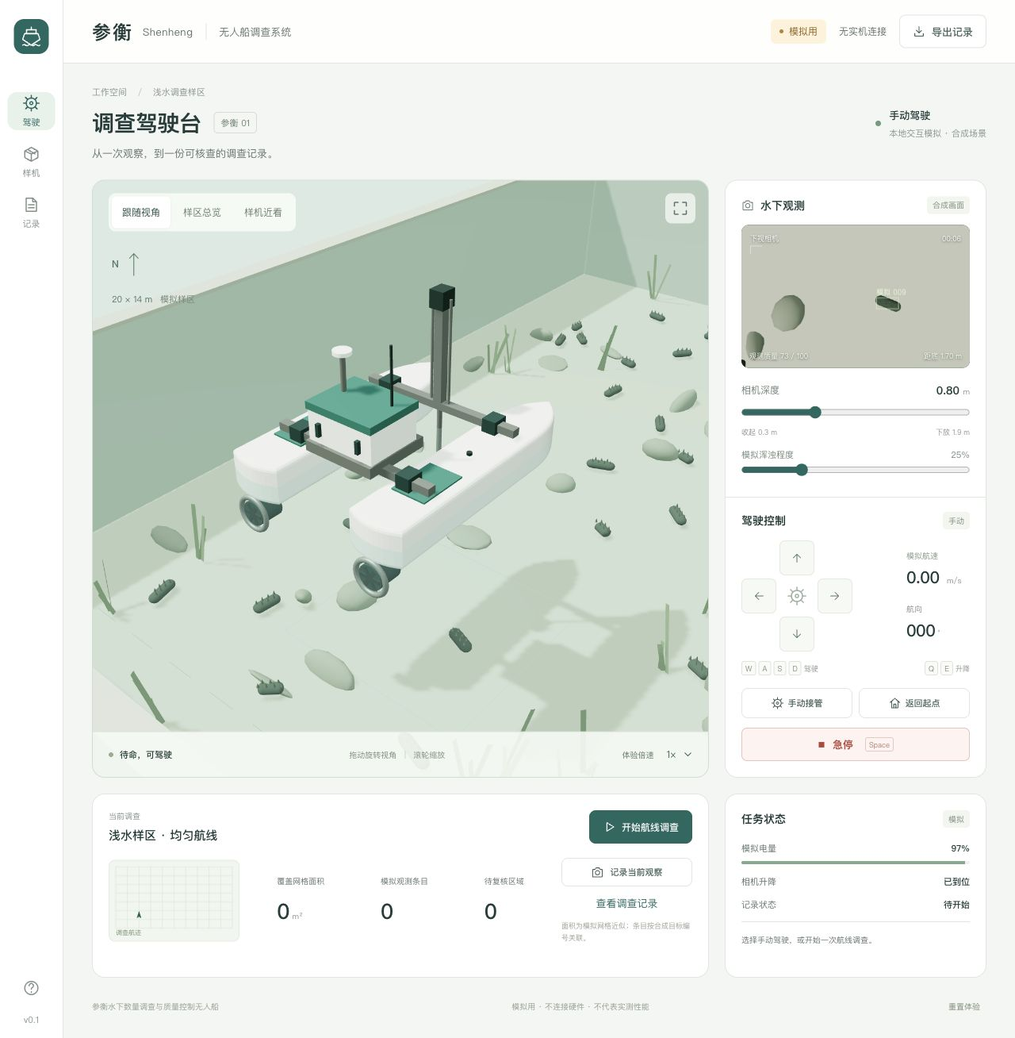
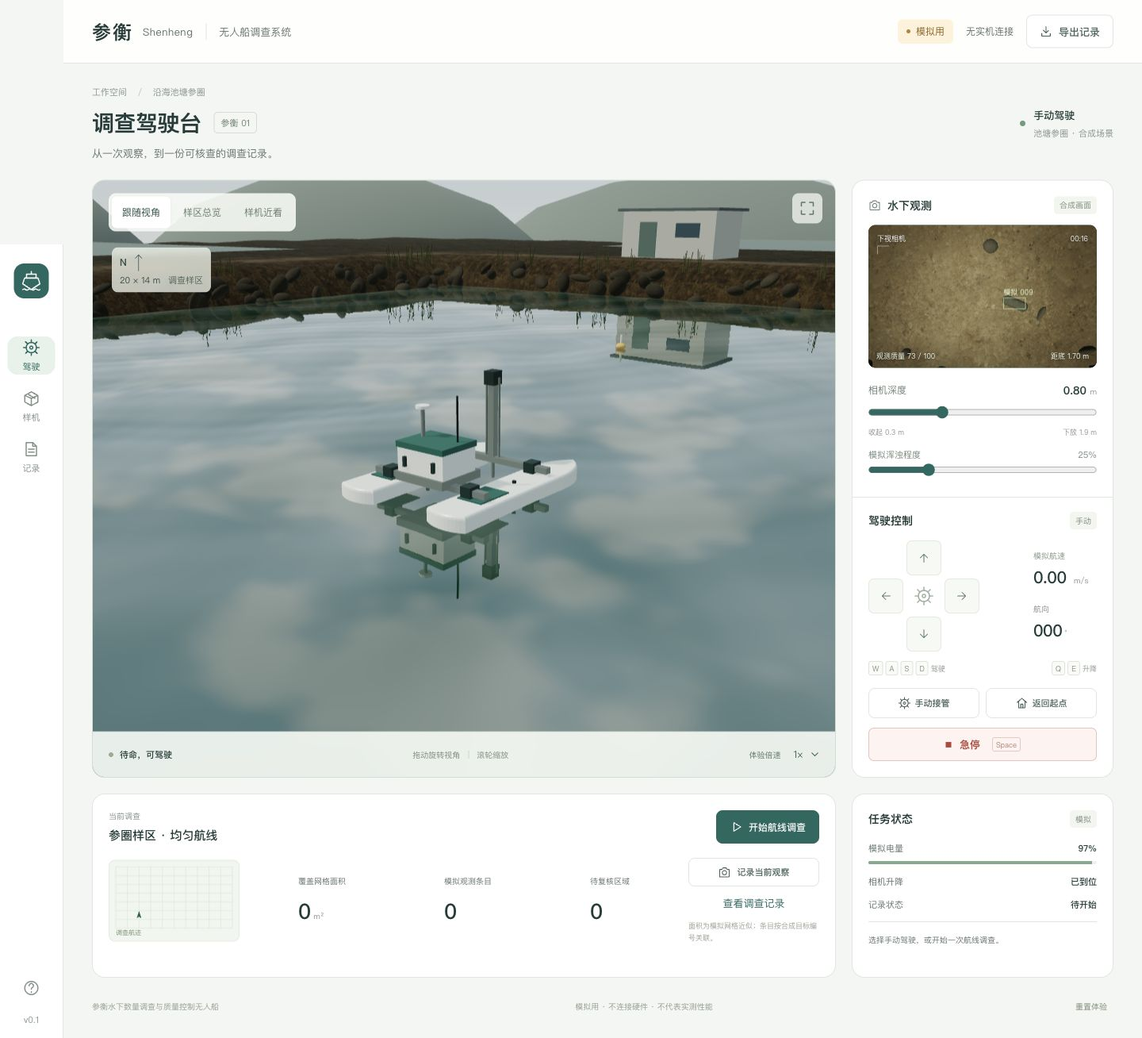
Replace display pool with coastal sea cucumber pond environment

diff --git a/scene.js b/scene.js
@@ -1,27 +1,21 @@
 import * as THREE from 'three';
-import {LIMITS,observationCenter} from './simulation.mjs';
+import {LIMITS,observationCenter} from './simulation.mjs?v=pond-1';
+import {createPondEnvironment} from './environment.js?v=pond-1';
+import {isReefOccluded} from './habitat.mjs?v=pond-1';
 
 const PARTS={hull:['双体浮筒','两侧浮筒承载横梁与设备，中央保留观测模块升降通道。概念比例尚未做浮力校核。'],thruster:['浸没式双推进器','两个带导流罩推进器安装在水线以下。左右差速用于转向；当前运动为简化模拟。'],lift:['中央升降机构','摄像头沿中央导杆垂直升降。可变观测高度不等于已验证的定高控制。'],pod:['下视观测模块','摄像头朝向池底，两侧为补光，侧边为测距模块。画面为合成场景，不运行识别模型。'],box:['密封控制与电池舱','舱体布置在横梁后方，避开升降行程。真实防水、续航与散热需另行测试。']};
 export function setupScene(container,camCanvas,overlay,world,onPart){
- const scene=new THREE.Scene();scene.background=new THREE.Color('#dce9e3');scene.fog=new THREE.Fog('#dce9e3',32,72);
- const renderer=new THREE.WebGLRenderer({antialias:true,alpha:false});renderer.setPixelRatio(Math.min(devicePixelRatio,1.75));renderer.toneMapping=THREE.ACESFilmicToneMapping;renderer.toneMappingExposure=1.25;renderer.shadowMap.enabled=true;renderer.shadowMap.type=THREE.PCFShadowMap;container.replaceChildren(renderer.domElement);
- const camera=new THREE.PerspectiveCamera(38,1,.05,100);const eye=new THREE.Vector3(),target=new THREE.Vector3();
- const hemi=new THREE.HemisphereLight('#f5fff8','#738b70',3.1);scene.add(hemi);const sun=new THREE.DirectionalLight('#fff7e8',3.6);sun.position.set(-9,18,8);sun.castShadow=true;sun.shadow.mapSize.set(1024,1024);sun.shadow.camera.left=-15;sun.shadow.camera.right=15;sun.shadow.camera.top=15;sun.shadow.camera.bottom=-15;sun.shadow.normalBias=.04;scene.add(sun);
+ const scene=new THREE.Scene();scene.background=new THREE.Color('#b1bebd');scene.fog=new THREE.FogExp2('#b1bebd',.004);
+ const renderer=new THREE.WebGLRenderer({antialias:true,alpha:false});renderer.setPixelRatio(Math.min(devicePixelRatio,1.5));renderer.toneMapping=THREE.ACESFilmicToneMapping;renderer.toneMappingExposure=.96;renderer.shadowMap.enabled=true;renderer.shadowMap.type=THREE.PCFShadowMap;container.replaceChildren(renderer.domElement);
+ const camera=new THREE.PerspectiveCamera(42,1,.05,600);const eye=new THREE.Vector3(),target=new THREE.Vector3();
+ const hemi=new THREE.HemisphereLight('#d4e1ea','#5d5947',1.15);scene.add(hemi);const sun=new THREE.DirectionalLight('#fff2dc',2.4);sun.position.set(-25,42,24);sun.castShadow=true;sun.shadow.mapSize.set(2048,2048);sun.shadow.camera.left=-34;sun.shadow.camera.right=34;sun.shadow.camera.top=34;sun.shadow.camera.bottom=-34;sun.shadow.camera.far=120;sun.shadow.normalBias=.025;sun.shadow.bias=-.0001;sun.shadow.intensity=.68;scene.add(sun);
  const material=(color,roughness=.55,metalness=0)=>new THREE.MeshStandardMaterial({color,roughness,metalness});
  const shell=material('#e9eee9',.3),metal=material('#9daaa4',.33,.65),dark=material('#2c4945',.45,.15),teal=material('#2b6d61',.5),black=material('#253a36',.55),sand=material('#b3b89b',.95);
  const mesh=(geo,mat,parent,pos,part)=>{const o=new THREE.Mesh(geo,mat);if(pos)o.position.set(...pos);o.castShadow=true;o.receiveShadow=true;if(part)o.userData.part=part;parent.add(o);return o};
  const box=(w,h,d,mat,parent,pos,part)=>mesh(new THREE.BoxGeometry(w,h,d),mat,parent,pos,part);
  const cyl=(r,h,mat,parent,pos,part)=>mesh(new THREE.CylinderGeometry(r,r,h,20),mat,parent,pos,part);
- const floor=mesh(new THREE.PlaneGeometry(23,17,1,1),sand,scene,[0,-2.5,0]);floor.rotation.x=-Math.PI/2;
- const pondEdge=new THREE.Group();scene.add(pondEdge);for(const x of [-10.5,10.5])box(.3,2.6,15,material('#a7b8a6'),pondEdge,[x,-1.25,0]);for(const z of [-7.5,7.5])box(21.3,2.6,.3,material('#a7b8a6'),pondEdge,[0,-1.25,z]);
- const waterGeo=new THREE.PlaneGeometry(21,15,50,36);waterGeo.rotateX(-Math.PI/2);const waterMat=new THREE.MeshPhysicalMaterial({color:'#619f96',transparent:true,opacity:.28,roughness:.2,metalness:.15,depthWrite:false,side:THREE.DoubleSide});const water=new THREE.Mesh(waterGeo,waterMat);water.renderOrder=3;scene.add(water);
- const edgePoints=[[-10,0,-7],[10,0,-7],[10,0,7],[-10,0,7],[-10,0,-7]].map(p=>new THREE.Vector3(...p));const edge=new THREE.Line(new THREE.BufferGeometry().setFromPoints(edgePoints),new THREE.LineDashedMaterial({color:'#6d9f86',dashSize:.22,gapSize:.18,transparent:true,opacity:.7}));edge.computeLineDistances();edge.position.y=.04;scene.add(edge);
- const rng=(n)=>{const v=Math.sin(n*127.1+34.3)*43758.5453;return v-Math.floor(v)};
- // Shared repeated geometries and materials avoid one allocation per frame.
- const rockGeo=new THREE.IcosahedronGeometry(1,1),rockMat=material('#7d8974',.98),sea=new THREE.Group();scene.add(sea);
- for(let i=0;i<65;i++){const x=(rng(i+1)-.5)*19,z=(rng(i+140)-.5)*13;const o=mesh(rockGeo,rockMat,sea,[x,-2.48,z]);o.scale.set(.09+rng(i+32)*.28,.04+rng(i+12)*.18,.1+rng(i+44)*.25);o.rotation.set(rng(i)*3,rng(i+7)*4,0)}
- const bladeGeo=new THREE.PlaneGeometry(.05,.45);bladeGeo.translate(0,.22,0);const weedMat=new THREE.MeshStandardMaterial({color:'#728966',roughness:1,side:THREE.DoubleSide});for(let i=0;i<100;i++){const x=(rng(i+300)-.5)*20,z=(rng(i+500)-.5)*14;if(Math.abs(x)<7&&Math.abs(z)<4&&i%3)continue;for(let j=0;j<3;j++){const o=mesh(bladeGeo,weedMat,sea,[x+j*.04,-2.47,z]);o.rotation.y=rng(i+j)*6;o.rotation.z=(rng(i+30+j)-.5)*.7;o.scale.y=.5+rng(i+99+j)*1.6}}
- const targetGroup=new THREE.Group();scene.add(targetGroup);const bodyGeo=new THREE.CapsuleGeometry(.07,.22,4,10);bodyGeo.rotateZ(Math.PI/2);const targetMat=material('#34473a',.94);const spikeGeo=new THREE.ConeGeometry(.018,.055,4);const spikeMat=material('#425140',.94);
+ const environment=createPondEnvironment(scene,renderer),water=environment.water;
+ const targetGroup=new THREE.Group();environment.underwater.add(targetGroup);const bodyGeo=new THREE.CapsuleGeometry(.07,.22,4,10);bodyGeo.rotateZ(Math.PI/2);const targetMat=material('#35352a',.82);const spikeGeo=new THREE.ConeGeometry(.018,.055,4);const spikeMat=material('#4a4832',.86);
  const targetBodies=new THREE.InstancedMesh(bodyGeo,targetMat,world.length),spikes=new THREE.InstancedMesh(spikeGeo,spikeMat,world.length*7),dummy=new THREE.Object3D();targetGroup.add(targetBodies,spikes);targetBodies.castShadow=true;targetBodies.receiveShadow=true;world.forEach((o,index)=>{dummy.position.set(o.x,-2.405,o.z);dummy.rotation.set(0,o.angle,0);dummy.scale.set(o.size/.17,.8,1);dummy.updateMatrix();targetBodies.setMatrixAt(index,dummy.matrix);for(let i=0;i<7;i++){const offset=(i-3)*.04,side=i%2?-.025:.025;dummy.position.set(o.x+Math.cos(o.angle)*offset+Math.sin(o.angle)*side,-2.33,o.z-Math.sin(o.angle)*offset+Math.cos(o.angle)*side);dummy.rotation.set(0,o.angle,0);dummy.scale.set(1,1,1);dummy.updateMatrix();spikes.setMatrixAt(index*7+i,dummy.matrix)}});targetBodies.computeBoundingSphere();spikes.computeBoundingSphere();
  const boat=new THREE.Group();scene.add(boat);
  const hullShape=new THREE.Shape();hullShape.moveTo(-.24,-1.1);hullShape.lineTo(-.24,.75);hullShape.quadraticCurveTo(-.24,1.15,0,1.36);hullShape.quadraticCurveTo(.24,1.15,.24,.75);hullShape.lineTo(.24,-1.1);hullShape.quadraticCurveTo(0,-1.23,-.24,-1.1);
@@ -35,18 +29,22 @@ export function setupScene(container,camCanvas,overlay,world,onPart){
  const footprint=new THREE.LineLoop(new THREE.BufferGeometry().setFromPoints([new THREE.Vector3(-.68,0,-.68),new THREE.Vector3(.68,0,-.68),new THREE.Vector3(.68,0,.68),new THREE.Vector3(-.68,0,.68)]),new THREE.LineBasicMaterial({color:'#74d8b2',transparent:true,opacity:.6}));footprint.position.y=-2.47;scene.add(footprint);
  const trackGeo=new THREE.BufferGeometry();trackGeo.setAttribute('position',new THREE.Float32BufferAttribute(new Float32Array(1200*3),3));trackGeo.setDrawRange(0,0);const track=new THREE.Line(trackGeo,new THREE.LineBasicMaterial({color:'#4eaa8a',transparent:true,opacity:.6}));track.frustumCulled=false;scene.add(track);
  const routeLine=new THREE.Line(new THREE.BufferGeometry(),new THREE.LineDashedMaterial({color:'#96b39a',dashSize:.22,gapSize:.18,transparent:true,opacity:.65}));routeLine.frustumCulled=false;scene.add(routeLine);let routeSignature='';
- let view='follow',azimuth=.70,elevation=.58,distance=8,drag=null,moved=false;
+ let view='follow',azimuth=.7,elevation=.32,distance=9.5,drag=null,moved=false,firstFrame=true;
  const ray=new THREE.Raycaster(),pointer=new THREE.Vector2();
- container.addEventListener('pointerdown',e=>{drag={x:e.clientX,y:e.clientY};moved=false;container.setPointerCapture(e.pointerId)});container.addEventListener('pointermove',e=>{if(!drag)return;const dx=e.clientX-drag.x,dy=e.clientY-drag.y;if(Math.abs(dx)+Math.abs(dy)>2)moved=true;azimuth-=dx*.007;elevation=THREE.MathUtils.clamp(elevation+dy*.006,.15,1.2);drag={x:e.clientX,y:e.clientY}});container.addEventListener('pointerup',e=>{if(!moved){const rect=container.getBoundingClientRect();pointer.set((e.clientX-rect.left)/rect.width*2-1,-(e.clientY-rect.top)/rect.height*2+1);ray.setFromCamera(pointer,camera);const hits=ray.intersectObject(boat,true);const hit=hits.find(h=>h.object.userData.part);if(hit){const id=hit.object.userData.part;onPart(PARTS[id]);}}drag=null});container.addEventListener('pointercancel',()=>drag=null);container.addEventListener('wheel',e=>{e.preventDefault();distance=THREE.MathUtils.clamp(distance+e.deltaY*.008,3.8,36)},{passive:false});
- const camRenderer=new THREE.WebGLRenderer({canvas:camCanvas,antialias:true});camRenderer.setPixelRatio(Math.min(devicePixelRatio,1.5));camRenderer.toneMapping=THREE.ACESFilmicToneMapping;camRenderer.toneMappingExposure=.9;const downCam=new THREE.PerspectiveCamera(65,1,.05,10);const ctx=overlay.getContext('2d');const projectPoint=new THREE.Vector3();
+ container.addEventListener('pointerdown',e=>{drag={x:e.clientX,y:e.clientY};moved=false;container.setPointerCapture(e.pointerId)});container.addEventListener('pointermove',e=>{if(!drag)return;const dx=e.clientX-drag.x,dy=e.clientY-drag.y;if(Math.abs(dx)+Math.abs(dy)>2)moved=true;azimuth-=dx*.007;elevation=THREE.MathUtils.clamp(elevation+dy*.006,.15,1.2);drag={x:e.clientX,y:e.clientY}});container.addEventListener('pointerup',e=>{if(!moved){const rect=container.getBoundingClientRect();pointer.set((e.clientX-rect.left)/rect.width*2-1,-(e.clientY-rect.top)/rect.height*2+1);ray.setFromCamera(pointer,camera);const hits=ray.intersectObject(boat,true);const hit=hits.find(h=>h.object.userData.part);if(hit){const id=hit.object.userData.part;onPart(PARTS[id]);}}drag=null});container.addEventListener('pointercancel',()=>drag=null);container.addEventListener('wheel',e=>{e.preventDefault();distance=THREE.MathUtils.clamp(distance+e.deltaY*.008,3.8,90)},{passive:false});
+ const observationLight=new THREE.SpotLight('#e8edcf',14,3.5,Math.PI/3,.8,2);scene.add(observationLight,observationLight.target);
+ const camRenderer=new THREE.WebGLRenderer({canvas:camCanvas,antialias:true});camRenderer.setPixelRatio(Math.min(devicePixelRatio,1.5));camRenderer.toneMapping=THREE.ACESFilmicToneMapping;camRenderer.toneMappingExposure=1.2;const downCam=new THREE.PerspectiveCamera(65,1,.05,10);const ctx=overlay.getContext('2d');const projectPoint=new THREE.Vector3();
  const resize=()=>{const w=container.clientWidth,h=container.clientHeight;if(!w||!h)return;renderer.setSize(w,h);camera.aspect=w/h;camera.updateProjectionMatrix();const cw=camCanvas.clientWidth,ch=camCanvas.clientHeight;camRenderer.setSize(cw,ch,false);downCam.aspect=cw/ch;downCam.updateProjectionMatrix();overlay.width=cw;overlay.height=ch};new ResizeObserver(resize).observe(container);new ResizeObserver(resize).observe(camCanvas);resize();
- const setView=v=>{view=v;azimuth=.7;elevation=v==='overview'?1.08:.53;distance=v==='overview'?26:v==='model'?4.8:8};
- const update=(s,elapsed)=>{boat.position.set(s.x,Math.sin(elapsed*1.2)*.008,s.z);boat.rotation.y=-s.heading;boat.rotation.z=Math.sin(elapsed*1.3)*.007;podGroup.position.y=-s.depth;liftRod.scale.y=s.depth+.25;liftRod.position.y=(.25-s.depth)/2;const h=LIMITS.waterDepth-s.depth;cone.scale.set(h, h, h);cone.position.y=-s.depth-h/2;const center=observationCenter(s),localFoot=new THREE.Vector3(center.x-s.x,0,center.z-s.z);footprint.position.set(s.x+localFoot.x,-2.47,s.z+localFoot.z);footprint.scale.set(h,h,h);footprint.rotation.y=-s.heading;boat.children.filter(o=>o.name==='propeller').forEach(o=>o.rotation.z+=Math.abs(s.speed)*.5);
-  if(view==='overview')target.set(0,-.6,0);else target.set(s.x,-.3,s.z);eye.set(target.x+Math.sin(azimuth)*Math.cos(elevation)*distance,target.y+Math.sin(elevation)*distance,target.z+Math.cos(azimuth)*Math.cos(elevation)*distance);camera.position.lerp(eye,.12);camera.lookAt(target);const p=trackGeo.attributes.position;for(let i=0;i<s.track.length;i++)p.setXYZ(i,s.track[i].x,.055,s.track[i].z);p.needsUpdate=true;trackGeo.setDrawRange(0,s.track.length);const signature=JSON.stringify(s.route);if(signature!==routeSignature){routeSignature=signature;routeLine.geometry.dispose();routeLine.geometry=new THREE.BufferGeometry().setFromPoints(s.route.map(v=>new THREE.Vector3(v.x,.04,v.z)));routeLine.computeLineDistances()}
+ const setView=v=>{view=v;azimuth=.7;elevation=v==='overview'?.90:v==='model'?.43:.32;distance=v==='overview'?70:v==='model'?5:9.5};
+ const update=(s,elapsed)=>{boat.position.set(s.x,Math.sin(elapsed*1.2)*.016,s.z);boat.rotation.y=-s.heading;boat.rotation.z=Math.sin(elapsed*1.3)*.012;podGroup.position.y=-s.depth;liftRod.scale.y=s.depth+.25;liftRod.position.y=(.25-s.depth)/2;const h=LIMITS.waterDepth-s.depth;cone.scale.set(h, h, h);cone.position.y=-s.depth-h/2;const center=observationCenter(s),localFoot=new THREE.Vector3(center.x-s.x,0,center.z-s.z);footprint.position.set(s.x+localFoot.x,-2.47,s.z+localFoot.z);footprint.scale.set(h,h,h);footprint.rotation.y=-s.heading;boat.children.filter(o=>o.name==='propeller').forEach(o=>o.rotation.z+=Math.abs(s.speed)*.5);
+  if(view==='overview')target.set(0,0,0);else target.set(s.x,.12,s.z);eye.set(target.x+Math.sin(azimuth)*Math.cos(elevation)*distance,target.y+Math.sin(elevation)*distance,target.z+Math.cos(azimuth)*Math.cos(elevation)*distance);if(firstFrame){camera.position.copy(eye);firstFrame=false}else camera.position.lerp(eye,.12);camera.lookAt(target);const p=trackGeo.attributes.position;for(let i=0;i<s.track.length;i++)p.setXYZ(i,s.track[i].x,.055,s.track[i].z);p.needsUpdate=true;trackGeo.setDrawRange(0,s.track.length);const signature=JSON.stringify(s.route);if(signature!==routeSignature){routeSignature=signature;routeLine.geometry.dispose();routeLine.geometry=new THREE.BufferGeometry().setFromPoints(s.route.map(v=>new THREE.Vector3(v.x,.04,v.z)));routeLine.computeLineDistances()}
+  track.visible=false;routeLine.visible=false;footprint.visible=false;cone.visible=false;
+  environment.prepare(camera,s,elapsed,boat);track.visible=true;routeLine.visible=true;
   renderer.render(scene,camera);
   // The observation camera renders the same world from the physical pod location.
-  downCam.position.set(s.x+localFoot.x,-s.depth-.1,s.z+localFoot.z);downCam.up.set(Math.sin(s.heading),0,-Math.cos(s.heading));downCam.lookAt(downCam.position.x,-2.5,downCam.position.z);downCam.updateMatrixWorld();const oldBg=scene.background;scene.background=new THREE.Color('#819976');boat.visible=false;water.visible=false;footprint.visible=false;track.visible=false;routeLine.visible=false;const oldFog=scene.fog;scene.fog=null;camRenderer.render(scene,downCam);scene.fog=oldFog;boat.visible=true;water.visible=true;footprint.visible=true;track.visible=true;routeLine.visible=true;scene.background=oldBg;
-  camCanvas.style.filter=`blur(${s.turbidity*1.5}px) saturate(${1-s.turbidity*.4}) brightness(${.95-s.turbidity*.15})`;ctx.clearRect(0,0,overlay.width,overlay.height);ctx.strokeStyle='#d7f4bcaa';ctx.lineWidth=1;ctx.font='9px sans-serif';ctx.fillStyle='#e7fbd8';for(const o of world){projectPoint.set(o.x,-2.43,o.z).project(downCam);if(projectPoint.z>1||Math.abs(projectPoint.x)>.9||Math.abs(projectPoint.y)>.85)continue;const x=(projectPoint.x+1)*overlay.width/2,y=(1-projectPoint.y)*overlay.height/2;const size=8+o.size*35;ctx.strokeRect(x-size,y-size/2,size*2,size);ctx.fillText(`模拟 ${String(o.id).padStart(3,'0')}`,x-size,y-size/2-4)}
+  downCam.position.set(s.x+localFoot.x,-s.depth-.1,s.z+localFoot.z);downCam.up.set(Math.sin(s.heading),0,-Math.cos(s.heading));downCam.lookAt(downCam.position.x,-2.5,downCam.position.z);downCam.updateMatrixWorld();observationLight.position.copy(downCam.position);observationLight.target.position.set(downCam.position.x,-2.5,downCam.position.z);const oldBg=scene.background,oldFog=scene.fog;scene.background=new THREE.Color('#263f2e');scene.fog=new THREE.FogExp2('#294534',.07+s.turbidity*.27);environment.above.visible=false;environment.sky.visible=false;boat.visible=false;water.visible=false;track.visible=false;routeLine.visible=false;
+  camRenderer.render(scene,downCam);scene.fog=oldFog;scene.background=oldBg;environment.above.visible=true;environment.sky.visible=true;boat.visible=true;water.visible=true;track.visible=true;routeLine.visible=true;
+  camCanvas.style.filter=`blur(${s.turbidity*.9}px) saturate(${.9-s.turbidity*.2}) brightness(${.97-s.turbidity*.12})`;ctx.clearRect(0,0,overlay.width,overlay.height);ctx.strokeStyle='#d7f4bcaa';ctx.lineWidth=1;ctx.font='9px sans-serif';ctx.fillStyle='#e7fbd8';for(const o of world){if(isReefOccluded(o,center,LIMITS.waterDepth-s.depth-.1))continue;projectPoint.set(o.x,-2.43,o.z).project(downCam);if(projectPoint.z>1||Math.abs(projectPoint.x)>.9||Math.abs(projectPoint.y)>.85)continue;const x=(projectPoint.x+1)*overlay.width/2,y=(1-projectPoint.y)*overlay.height/2;const size=8+o.size*35;ctx.strokeRect(x-size,y-size/2,size*2,size);ctx.fillText(`模拟 ${String(o.id).padStart(3,'0')}`,x-size,y-size/2-4)}
  };
- return{update,setView,start:callback=>renderer.setAnimationLoop(callback),resetView:()=>setView(view),getInfo:()=>({drawCalls:renderer.info.render.calls,geometries:renderer.info.memory.geometries}),dispose(){renderer.setAnimationLoop(null);renderer.dispose();camRenderer.dispose()}};
+ return{update,setView,start:callback=>renderer.setAnimationLoop(callback),resetView:()=>setView(view),getInfo:()=>({drawCalls:renderer.info.render.calls,geometries:renderer.info.memory.geometries}),dispose(){renderer.setAnimationLoop(null);environment.dispose();renderer.dispose();camRenderer.dispose()}};
 }

diff --git a/environment.js b/environment.js
@@ -1,0 +1,114 @@
+import * as THREE from 'three';
+import {REEFS} from './habitat.mjs?v=pond-1';
+
+const containerWidth=()=>document.documentElement.clientWidth;
+const hash=n=>{const v=Math.sin(n*127.1+34.3)*43758.5453;return v-Math.floor(v)};
+const mat=(color,roughness=1,metalness=0)=>new THREE.MeshStandardMaterial({color,roughness,metalness});
+
+export function createPondEnvironment(scene,renderer){
+ const above=new THREE.Group(),underwater=new THREE.Group();scene.add(above,underwater);
+ const loader=new THREE.TextureLoader();
+ const texture=(name,color=false)=>{const t=loader.load(new URL(`./assets/textures/${name}`,import.meta.url).href);t.wrapS=t.wrapT=THREE.RepeatWrapping;t.anisotropy=Math.min(8,renderer.capabilities.getMaxAnisotropy());if(color)t.colorSpace=THREE.SRGBColorSpace;return t};
+ const sandMap=texture('coast_sand_02_diffuse.jpg',true),sandNormal=texture('coast_sand_02_nor_gl.jpg'),sandArm=texture('coast_sand_02_arm.jpg');
+ const earthMap=texture('brown_mud_02_diff.jpg',true),earthNormal=texture('brown_mud_02_nor_gl.jpg');
+ const rockMap=texture('rock_01_diff.jpg',true),rockNormal=texture('rock_01_nor_gl.jpg');
+ const sandMat=new THREE.MeshStandardMaterial({color:'#b8ad89',map:sandMap,normalMap:sandNormal,normalScale:new THREE.Vector2(.45,.45),roughnessMap:sandArm,aoMap:sandArm,aoMapIntensity:.55,roughness:1});
+ const earthMat=new THREE.MeshStandardMaterial({color:new THREE.Color('#d3c6a8').multiplyScalar(1.25),map:earthMap,normalMap:earthNormal,normalScale:new THREE.Vector2(.65,.65),roughness:1,vertexColors:true});
+ const rockMat=new THREE.MeshStandardMaterial({color:'#898b7e',map:rockMap,normalMap:rockNormal,normalScale:new THREE.Vector2(.6,.6),roughness:.88});
+ const add=(geo,material,parent,pos)=>{const o=new THREE.Mesh(geo,material);if(pos)o.position.set(...pos);o.receiveShadow=true;parent.add(o);return o};
+ const box=(w,h,d,material,parent,pos)=>add(new THREE.BoxGeometry(w,h,d),material,parent,pos);
+ const cylinder=(r,h,material,parent,pos)=>add(new THREE.CylinderGeometry(r,r,h,14),material,parent,pos);
+ const tileUV=(geo,scale)=>{const uv=geo.attributes.uv;for(let i=0;i<uv.count;i++)uv.setXY(i,uv.getX(i)*scale[0],uv.getY(i)*scale[1]);return geo};
+ const bed=add(tileUV(new THREE.PlaneGeometry(57,43),[19,14.3]),sandMat,underwater,[0,-2.5,0]);bed.rotation.x=-Math.PI/2;
+
+ // Earth berms slope into the pond. A full landscape is visible beyond the sample area.
+ const terrainGeo=new THREE.PlaneGeometry(130,110,130,110);terrainGeo.rotateX(-Math.PI/2);
+ const pos=terrainGeo.attributes.position,colors=[];
+ for(let i=0;i<pos.count;i++){
+  const x=pos.getX(i),z=pos.getZ(i),edge=Math.max(Math.abs(x)-27,Math.abs(z)-20);
+  let y=edge<-.7?-2.7:edge<3.3?-2.5+(edge+.7)/4*3.8:1.3;
+  y+=(Math.sin(x*.57)*Math.cos(z*.71)*.10+hash(i)*.055)*Math.min(1,Math.max(0,edge+1));
+  pos.setY(i,y);
+  const wet=edge<1.8,noise=.86+hash(i+100)*.2;
+  const c=new THREE.Color(wet?'#9e9c80':edge>7?'#a6ac85':'#e5d9b7').multiplyScalar(noise);colors.push(c.r,c.g,c.b);
+ }
+ terrainGeo.setAttribute('color',new THREE.Float32BufferAttribute(colors,3));tileUV(terrainGeo,[43.3,36.6]);terrainGeo.computeVertexNormals();add(terrainGeo,earthMat,above);
+ // Patches of gravel road on the berm crown.
+ const roadMat=new THREE.MeshStandardMaterial({color:new THREE.Color('#e3d9bc').multiplyScalar(1.35),map:earthMap,normalMap:earthNormal,normalScale:new THREE.Vector2(.32,.32),roughness:1});
+ for(const x of [-32,32]){const road=add(tileUV(new THREE.PlaneGeometry(2.3,51),[.77,17]),roadMat,above,[x,1.34,0]);road.rotation.x=-Math.PI/2}
+ for(const z of [-25,25]){const road=add(tileUV(new THREE.PlaneGeometry(66,2.3),[22,.77]),roadMat,above,[0,1.34,z]);road.rotation.x=-Math.PI/2}
+ // Shoreline riprap: shared geometry, one draw call, varied scales and rotations.
+ const stoneGeo=new THREE.IcosahedronGeometry(1,1),stones=new THREE.InstancedMesh(stoneGeo,rockMat,360),dummy=new THREE.Object3D();above.add(stones);stones.receiveShadow=true;
+ for(let i=0;i<360;i++){
+  const side=i%4,t=hash(i+400)*2-1,offset=hash(i+500)*1.8;
+  const x=side<2?(side?1:-1)*(27+offset):t*28,z=side>=2?(side===2?1:-1)*(20+offset):t*21;
+  dummy.position.set(x,-.18+offset*.63,z);dummy.rotation.set(hash(i+9),hash(i+7)*6.28,hash(i+8));dummy.scale.set(.18+hash(i)*.34,.12+hash(i+4)*.26,.18+hash(i+6)*.32);dummy.updateMatrix();stones.setMatrixAt(i,dummy.matrix);
+  stones.setColorAt(i,new THREE.Color().setScalar(.7+hash(i+15)*.45));
+ }stones.computeBoundingSphere();
+ // Sparse shoreline reeds, instanced and restricted to the banks, not an underwater lawn.
+ const reedGeo=new THREE.PlaneGeometry(.028,1,1,4);reedGeo.translate(0,.5,0);
+ const reedMat=new THREE.MeshStandardMaterial({color:'#6f7546',side:THREE.DoubleSide,roughness:1});
+ const reeds=new THREE.InstancedMesh(reedGeo,reedMat,1000);above.add(reeds);
+ for(let i=0;i<1000;i++){
+  const cluster=Math.floor(i/8),side=cluster%4,t=hash(cluster+900)*2-1;
+  const x=side<2?(side?1:-1)*(29.1+hash(cluster)*.6):t*29,z=side>=2?(side===2?1:-1)*(22.1+hash(cluster+4)*.6):t*22;
+  dummy.position.set(x+(hash(i)-.5)*.3,.95,z+(hash(i+1)-.5)*.3);dummy.rotation.set((hash(i+6)-.5)*.25,hash(i+2)*6.28,(hash(i+3)-.5)*.35);dummy.scale.set(1,.35+hash(i+4)*.7,1);dummy.updateMatrix();reeds.setMatrixAt(i,dummy.matrix);reeds.setColorAt(i,new THREE.Color().setHSL(.15+hash(i+8)*.06,.18,.32+hash(i+9)*.14));
+ }reeds.computeBoundingSphere();
+
+ // Adjacent ponds and low coastal ridgelines provide context beyond the working pond.
+ const distantWater=mat('#526e66',.2,.1);for(const p of [[-48,0,24,35],[48,0,24,35],[0,-45,52,24]]){const o=add(new THREE.PlaneGeometry(p[2],p[3]),distantWater,above,[p[0],1.65,p[1]===0?0:p[1]]);o.rotation.x=-Math.PI/2}
+ const hillMat=mat('#6e7b72');for(let i=0;i<14;i++){const a=i/14*Math.PI*2,r=140+hash(i)*25;const h=add(new THREE.SphereGeometry(1,16,8),hillMat,above,[Math.sin(a)*r,-9,Math.cos(a)*r]);h.scale.set(24+hash(i)*36,13+hash(i+1)*16,19+hash(i+2)*32)}
+ const concrete=mat('#b0aaa0',.95),rust=mat('#635a46',.7,.28),paint=mat('#607b72',.55,.25);
+ // Illustrative sluice and operator platform on the far bank.
+ const sluice=new THREE.Group();sluice.position.set(9,0,-22);above.add(sluice);
+ box(3.3,.24,4.6,concrete,sluice,[0,.94,0]);for(const x of [-1.2,1.2])box(.30,2.8,.36,concrete,sluice,[x,-.15,1.1]);box(2.1,1.7,.12,paint,sluice,[0,-.05,1.15]);for(const x of [-1.3,1.3])box(.09,2.5,.09,rust,sluice,[x,2.12,.9]);box(2.8,.12,.12,rust,sluice,[0,3.3,.9]);cylinder(.04,2,rust,sluice,[0,2.25,.9]);const wheel=add(new THREE.TorusGeometry(.24,.025,8,24),rust,sluice,[0,3.45,.9]);wheel.rotation.x=Math.PI/2;
+ for(const x of [-1.5,1.5]){for(const z of [-1.6,0,1.6])cylinder(.025,1,rust,sluice,[x,1.55,z]);const rail=cylinder(.025,3.6,rust,sluice,[x,2.02,0]);rail.rotation.x=Math.PI/2}
+ const shed=new THREE.Group();shed.position.set(-18,1.4,-27);above.add(shed);box(4.8,2.2,3.1,mat('#b8bab1'),shed,[0,1.1,0]);box(5.2,.13,3.6,mat('#626f72',.65,.4),shed,[0,2.24,0]);box(.9,1.65,.04,paint,shed,[-1,.85,1.58]);box(1.2,.65,.05,mat('#405963',.25),shed,[1.05,1.3,1.58]);
+ // A narrow shore platform, outside the software sample boundary.
+ const wood=mat('#887964',.96);for(let i=0;i<15;i++)box(1.6,.10,.2,wood,above,[-18,.27,15-i*.22]);for(const x of [-18.6,-17.4])for(const z of [12,15])cylinder(.055,2.6,rust,above,[x,-.5,z]);
+ const markerMat=mat('#dfb260',.6),markerWhite=mat('#e5e4d7',.6),buoys=[];
+ for(const x of [-10,10])for(const z of [-7,7]){const buoy=new THREE.Group();buoy.position.set(x,.035,z);above.add(buoy);const body=add(new THREE.SphereGeometry(.13,14,10),markerMat,buoy,[0,.04,0]);body.scale.y=.65;cylinder(.025,.34,markerWhite,buoy,[0,.16,0]);buoys.push(buoy)}
+ // Submerged low brick shelters and individual cobbles; no target-like decorative vegetation.
+ const brickMat=new THREE.MeshStandardMaterial({color:'#67614c',map:rockMap,normalMap:rockNormal,normalScale:new THREE.Vector2(.5,.5),roughness:.93});
+ const supportGeo=new THREE.BoxGeometry(.18,.26,.20),roofGeo=new THREE.BoxGeometry(1.16,.12,.72);
+ const supports=new THREE.InstancedMesh(supportGeo,brickMat,REEFS.length*4),roofs=new THREE.InstancedMesh(roofGeo,brickMat,REEFS.length);supports.castShadow=roofs.castShadow=true;supports.receiveShadow=roofs.receiveShadow=true;underwater.add(supports,roofs);
+ REEFS.forEach((reef,i)=>{let j=0;for(const x of [-.46,.46])for(const z of [-.23,.23]){dummy.position.set(reef.x+x*Math.cos(reef.angle)+z*Math.sin(reef.angle),-2.37,reef.z-x*Math.sin(reef.angle)+z*Math.cos(reef.angle));dummy.rotation.set(0,reef.angle,0);dummy.scale.set(1,1,1);dummy.updateMatrix();supports.setMatrixAt(i*4+j++,dummy.matrix)}dummy.position.set(reef.x,-2.18,reef.z);dummy.updateMatrix();roofs.setMatrixAt(i,dummy.matrix)});supports.computeBoundingSphere();roofs.computeBoundingSphere();
+ const pebbles=new THREE.InstancedMesh(stoneGeo,rockMat,180);underwater.add(pebbles);pebbles.receiveShadow=true;for(let i=0;i<180;i++){dummy.position.set((hash(i+1900)-.5)*21,-2.48,(hash(i+2100)-.5)*15);dummy.rotation.set(hash(i),hash(i+8)*6,hash(i+3));dummy.scale.set(.03+hash(i+5)*.09,.025+hash(i+7)*.05,.03+hash(i+9)*.1);dummy.updateMatrix();pebbles.setMatrixAt(i,dummy.matrix)}pebbles.computeBoundingSphere();
+
+ const dustGeo=new THREE.BufferGeometry(),dustPositions=new Float32Array(160*3);for(let i=0;i<160;i++){dustPositions[i*3]=(hash(i+3000)-.5)*22;dustPositions[i*3+1]=-2.35+hash(i+3300)*1.9;dustPositions[i*3+2]=(hash(i+3600)-.5)*16}dustGeo.setAttribute('position',new THREE.BufferAttribute(dustPositions,3));underwater.add(new THREE.Points(dustGeo,new THREE.PointsMaterial({color:'#c2c5a5',size:.009,transparent:true,opacity:.23,depthWrite:false})));
+ const skyGeo=new THREE.SphereGeometry(350,24,16),skyMat=new THREE.ShaderMaterial({side:THREE.BackSide,depthWrite:false,uniforms:{},vertexShader:`varying vec3 vDir;void main(){vDir=position;gl_Position=projectionMatrix*modelViewMatrix*vec4(position,1.);}`,fragmentShader:`varying vec3 vDir;
+ float hash(vec2 p){return fract(sin(dot(p,vec2(127.1,311.7)))*43758.5453);}
+ float noise(vec2 p){vec2 i=floor(p),f=fract(p);f=f*f*(3.-2.*f);return mix(mix(hash(i),hash(i+vec2(1,0)),f.x),mix(hash(i+vec2(0,1)),hash(i+1.),f.x),f.y);}
+ void main(){vec3 d=normalize(vDir);float h=max(d.y,0.);vec3 col=mix(vec3(.62,.69,.68),vec3(.20,.38,.55),pow(h,.48));float n=noise(d.xz/(h+.13)*2.4)*.6+noise(d.xz/(h+.13)*6.)*.27+noise(d.xz/(h+.13)*13.)*.13;float cloud=smoothstep(.52,.72,n)*smoothstep(.02,.25,h);col=mix(col,vec3(.82,.83,.79),cloud*.65);gl_FragColor=vec4(col,1.);
+ #include <tonemapping_fragment>
+ #include <colorspace_fragment>
+ }`});const sky=new THREE.Mesh(skyGeo,skyMat);scene.add(sky);
+ const envScene=new THREE.Scene();envScene.add(new THREE.Mesh(skyGeo,skyMat));const pmrem=new THREE.PMREMGenerator(renderer),envTarget=pmrem.fromScene(envScene,.045,.1,500);scene.environment=envTarget.texture;scene.environmentIntensity=.4;pmrem.dispose();
+
+ const reflection=new THREE.WebGLRenderTarget(containerWidth()>700?1024:512,containerWidth()>700?1024:512,{type:THREE.HalfFloatType});
+ const mirrorCamera=new THREE.PerspectiveCamera(),textureMatrix=new THREE.Matrix4(),biasMatrix=new THREE.Matrix4().set(.5,0,0,.5,0,.5,0,.5,0,0,.5,.5,0,0,0,1),look=new THREE.Vector3(),direction=new THREE.Vector3();
+ const waterUniforms={time:{value:0},reflectionMap:{value:reflection.texture},textureMatrix:{value:textureMatrix},sunDirection:{value:new THREE.Vector3(-.45,.78,.43).normalize()},boatPosition:{value:new THREE.Vector2()},heading:{value:0},speed:{value:0},turbidity:{value:.25}};
+ const waterMat=new THREE.ShaderMaterial({uniforms:waterUniforms,vertexShader:`uniform float time;uniform mat4 textureMatrix;varying vec3 vWorld;varying vec4 vReflect;void main(){vec3 p=position;p.y+=sin(p.x*1.5+p.z*.63+time*.8)*.009+sin(p.z*2.7-p.x*.4-time*1.1)*.005;vec4 world=modelMatrix*vec4(p,1.);vWorld=world.xyz;vReflect=textureMatrix*world;gl_Position=projectionMatrix*viewMatrix*world;}`,fragmentShader:`
+ uniform float time;uniform sampler2D reflectionMap;uniform vec3 sunDirection;uniform vec2 boatPosition;uniform float heading;uniform float speed;uniform float turbidity;varying vec3 vWorld;varying vec4 vReflect;
+ float rand(vec2 p){return fract(sin(dot(p,vec2(127.1,311.7)))*43758.5453);}
+ float noise(vec2 p){vec2 i=floor(p),f=fract(p);f=f*f*(3.-2.*f);return mix(mix(rand(i),rand(i+vec2(1.,0.)),f.x),mix(rand(i+vec2(0.,1.)),rand(i+1.),f.x),f.y);}
+ float height(vec2 p){vec2 q=p+vec2(noise(p*.4+time*.03),noise(p*.35-time*.025))*1.3;return sin(q.x*1.6+q.y*.55+time*.8)*.017+sin(q.x*-2.1+q.y*1.75-time*.65)*.009+sin(q.x*5.15+q.y*3.8+time*1.4)*.0025+sin(q.x*10.2-q.y*6.1-time*1.7)*.0008;}
+ void main(){vec2 p=vWorld.xz;float e=.016;float dx=(height(p+vec2(e,0))-height(p-vec2(e,0)))/(2.*e),dz=(height(p+vec2(0,e))-height(p-vec2(0,e)))/(2.*e);vec2 local=p-boatPosition;float along=-dot(local,vec2(sin(heading),-cos(heading))),across=dot(local,vec2(cos(heading),sin(heading)));float wake=sin(length(vec2(across,along*.65))*36.-time*6.)*.012*abs(speed)*exp(-abs(across)*2.-abs(along-1.)*.8)*smoothstep(0.,.5,along);vec3 n=normalize(vec3(-dx+ wake,1.,-dz+wake));vec3 eye=normalize(cameraPosition-vWorld);float fresnel=.035+.965*pow(1.-max(dot(n,eye),0.),5.);vec2 uv=vReflect.xy/vReflect.w+n.xz*.012;vec3 reflected=texture2D(reflectionMap,clamp(uv,.002,.998)).rgb;float ripple=height(p)*2.;vec3 base=mix(vec3(.040,.105,.079),vec3(.073,.107,.063),turbidity)+ripple;vec3 color=mix(base,reflected,clamp(.20+fresnel*.78,0.,.94));float highlight=pow(max(dot(reflect(-sunDirection,n),eye),0.),135.);color+=vec3(1.,.92,.7)*highlight*.75;float shadow=exp(-(local.x*local.x/1.1+local.y*local.y/1.8)*2.);color*=1.-shadow*.20;float bank=min(27.-abs(p.x),20.-abs(p.y));float edge=(1.-smoothstep(0.,.65,bank))*.13;color+=vec3(.18,.19,.12)*edge;gl_FragColor=vec4(color,1.);
+ #include <tonemapping_fragment>
+ #include <colorspace_fragment>
+ }`});
+ const waterGeo=new THREE.PlaneGeometry(54,40,96,72);waterGeo.rotateX(-Math.PI/2);const water=new THREE.Mesh(waterGeo,waterMat);scene.add(water);
+ let reflectionFrame=0;
+ const prepare=(camera,s,elapsed,boat)=>{
+  waterUniforms.time.value=elapsed;waterUniforms.boatPosition.value.set(s.x,s.z);waterUniforms.heading.value=s.heading;waterUniforms.speed.value=s.speed;waterUniforms.turbidity.value=s.turbidity;
+  buoys.forEach((o,i)=>{o.position.y=.035+Math.sin(elapsed*1.4+i)*.018;o.rotation.z=Math.sin(elapsed+i)*.025});
+  if(reflectionFrame++%3!==0)return;
+  camera.updateMatrixWorld();mirrorCamera.copy(camera);mirrorCamera.position.copy(camera.position);mirrorCamera.position.y=-camera.position.y;camera.getWorldDirection(direction);look.copy(camera.position).add(direction);look.y=-look.y;mirrorCamera.up.set(0,-1,0);mirrorCamera.lookAt(look);mirrorCamera.updateMatrixWorld();
+  textureMatrix.copy(biasMatrix).multiply(mirrorCamera.projectionMatrix).multiply(mirrorCamera.matrixWorldInverse);
+  const target=renderer.getRenderTarget();water.visible=false;underwater.visible=false;
+  const submerged=[];boat.traverse(o=>{if(o.isMesh&&o.getWorldPosition(direction).y<-.08&&o.visible){submerged.push(o);o.visible=false}});
+  renderer.setRenderTarget(reflection);renderer.render(scene,mirrorCamera);renderer.setRenderTarget(target);
+  submerged.forEach(o=>o.visible=true);underwater.visible=true;water.visible=true;
+ };
+ return{above,underwater,water,sky,prepare,dispose(){reflection.dispose();envTarget.dispose()}};
+}

diff --git a/index.html b/index.html
@@ -1,5 +1,5 @@
 <!doctype html>
-<html lang="zh-CN"><head><meta charset="utf-8"><meta name="viewport" content="width=device-width, initial-scale=1"><meta name="theme-color" content="#f2f5f2"><meta name="description" content="参衡海参养殖调查无人船交互驾驶台，模拟用。"><title>参衡 · 调查驾驶台｜模拟用</title><link rel="icon" href="icon.svg" type="image/svg+xml"><link rel="stylesheet" href="style.css"><script type="importmap">{"imports":{"three":"./vendor/three.module.js"}}</script></head>
+<html lang="zh-CN"><head><meta charset="utf-8"><meta name="viewport" content="width=device-width, initial-scale=1"><meta name="theme-color" content="#f2f5f2"><meta name="description" content="参衡海参养殖调查无人船交互驾驶台，模拟用。"><title>参衡 · 调查驾驶台｜模拟用</title><link rel="icon" href="icon.svg" type="image/svg+xml"><link rel="stylesheet" href="style.css?v=pond-1"><script type="importmap">{"imports":{"three":"./vendor/three.module.js"}}</script></head>
 <body>
 <svg class="svg-defs" xmlns="http://www.w3.org/2000/svg"><defs>
 <symbol id="i-boat" viewBox="0 0 24 24"><path d="m3 15 2-6h14l2 6-9 6-9-6Zm4-6V5h10v4M12 5V2M3 21c2-2 4 2 6 0s4 2 6 0 4 2 6 0"/></symbol>
@@ -17,16 +17,16 @@
 <aside class="rail"><a class="brand-mark" href="./" aria-label="参衡首页"><svg><use href="#i-boat"/></svg></a><div class="rail-nav"><button class="rail-button active" id="nav-drive" aria-label="调查驾驶台" title="调查驾驶台"><svg><use href="#i-helm"/></svg><span>驾驶</span></button><button class="rail-button" id="nav-prototype" aria-label="查看样机结构" title="样机结构"><svg><use href="#i-box"/></svg><span>样机</span></button><button class="rail-button" id="nav-records" aria-label="查看调查记录" title="调查记录"><svg><use href="#i-file"/></svg><span>记录</span></button></div><button class="rail-button help-button" id="help" aria-label="使用帮助"><svg><use href="#i-help"/></svg></button><span class="rail-version">v0.1</span></aside>
 <div class="app-shell">
 <header class="topbar"><div class="brand"><strong>参衡</strong><span class="brand-en">Shenheng</span><i></i><span class="topbar-label">无人船调查系统</span></div><div class="topbar-right"><span class="simulation-badge"><span></span>模拟用</span><span class="offline-label">无实机连接</span><button id="export-top" class="button button-outline"><svg><use href="#i-download"/></svg>导出记录</button></div></header>
-<main><div class="page-heading"><div><div class="breadcrumb">工作空间 <span>/</span> 浅水调查样区</div><h1>调查驾驶台 <span class="unit-tag">参衡 01</span></h1><p>从一次观察，到一份可核查的调查记录。</p></div><div class="session-meta"><span class="session-dot"></span><div><strong id="operation-state">手动驾驶</strong><span>本地交互模拟 · 合成场景</span></div></div></div>
+<main><div class="page-heading"><div><div class="breadcrumb">工作空间 <span>/</span> 沿海池塘参圈</div><h1>调查驾驶台 <span class="unit-tag">参衡 01</span></h1><p>从一次观察，到一份可核查的调查记录。</p></div><div class="session-meta"><span class="session-dot"></span><div><strong id="operation-state">手动驾驶</strong><span>池塘参圈 · 合成场景</span></div></div></div>
 <div class="workspace">
-<section class="world-panel" aria-label="三维驾驶工作区"><div class="world-top"><div class="view-tabs" aria-label="三维视角"><button class="selected" data-view="follow">跟随视角</button><button data-view="overview">样区总览</button><button data-view="model">样机近看</button></div><button class="icon-button" id="reset-view" aria-label="恢复视角" title="恢复视角"><svg><use href="#i-expand"/></svg></button></div><div id="scene" aria-label="三维双体无人船与合成水下样区"><div id="loading">正在准备三维样区…</div></div><div class="world-coordinate"><span class="compass">N <span>↑</span></span><span>20 × 14 m <em>模拟样区</em></span></div><div class="part-detail hidden" id="part-detail"><span>样机结构</span><strong id="part-name">双体浮筒</strong><p id="part-description"></p><button id="close-part" aria-label="关闭结构说明">×</button></div><div class="world-bottom"><div class="live-status"><span id="status-dot"></span><strong id="world-status">待命，可驾驶</strong></div><div class="world-hint">拖动旋转视角 <i></i> 滚轮缩放</div><label class="speed-select">体验倍速 <select id="timescale" aria-label="体验倍速"><option value="1">1×</option><option value="3">3×</option><option value="6">6×</option></select></label></div><div class="estop-overlay hidden" id="estop-overlay"><div><span>■</span><strong>急停已锁定</strong><p>所有运动已停止，旧任务不会自动恢复。</p><button id="release-stop" class="button button-white">解除急停</button></div></div></section>
+<section class="world-panel" aria-label="三维驾驶工作区"><div class="world-top"><div class="view-tabs" aria-label="三维视角"><button class="selected" data-view="follow">跟随视角</button><button data-view="overview">样区总览</button><button data-view="model">样机近看</button></div><button class="icon-button" id="reset-view" aria-label="恢复视角" title="恢复视角"><svg><use href="#i-expand"/></svg></button></div><div id="scene" aria-label="沿海池塘参圈、土石堤岸和三维双体无人船"><div id="loading">正在准备三维样区…</div></div><div class="world-coordinate"><span class="compass">N <span>↑</span></span><span>20 × 14 m <em>调查样区</em></span></div><div class="part-detail hidden" id="part-detail"><span>样机结构</span><strong id="part-name">双体浮筒</strong><p id="part-description"></p><button id="close-part" aria-label="关闭结构说明">×</button></div><div class="world-bottom"><div class="live-status"><span id="status-dot"></span><strong id="world-status">待命，可驾驶</strong></div><div class="world-hint">拖动旋转视角 <i></i> 滚轮缩放</div><label class="speed-select">体验倍速 <select id="timescale" aria-label="体验倍速"><option value="1">1×</option><option value="3">3×</option><option value="6">6×</option></select></label></div><div class="estop-overlay hidden" id="estop-overlay"><div><span>■</span><strong>急停已锁定</strong><p>所有运动已停止，旧任务不会自动恢复。</p><button id="release-stop" class="button button-white">解除急停</button></div></div></section>
 <aside class="control-panel"><section class="camera-section"><div class="section-title"><h2><svg><use href="#i-camera"/></svg>水下观测</h2><span class="small-tag">合成画面</span></div><div class="camera-frame"><canvas id="camera-view" aria-label="随船位与升降变化的合成水下画面"></canvas><canvas id="camera-overlay" aria-hidden="true"></canvas><div class="camera-corner">下视相机 <span id="camera-time">00:00</span></div><div class="camera-bottom"><span id="camera-quality">观测质量 —</span><span id="camera-height">距底 — m</span></div></div><div class="depth-control"><div><label for="depth">相机深度</label><strong><span id="depth-readout">0.80</span> <small>m</small></strong></div><input id="depth" type="range" min="0.3" max="1.9" step="0.05" value="0.8"><div class="range-labels"><span>收起 0.3 m</span><span>下放 1.9 m</span></div></div><div class="section-title ambient-title"><label for="turbidity">模拟浑浊程度</label><span id="turbidity-value">25%</span></div><input id="turbidity" type="range" min="0" max="100" value="25" aria-label="模拟浑浊程度"></section>
 <section class="helm-section"><div class="section-title"><h2>驾驶控制</h2><span class="small-tag" id="control-mode">手动</span></div><div class="helm-layout"><div class="direction-pad"><button class="drive-key forward" data-drive="forward" aria-label="前进 W"><svg><use href="#i-arrow"/></svg></button><button class="drive-key left" data-drive="left" aria-label="左转 A"><svg><use href="#i-arrow"/></svg></button><div class="helm-center"><svg><use href="#i-helm"/></svg></div><button class="drive-key right" data-drive="right" aria-label="右转 D"><svg><use href="#i-arrow"/></svg></button><button class="drive-key back" data-drive="back" aria-label="后退 S"><svg><use href="#i-arrow"/></svg></button></div><div class="helm-readings"><div><span>模拟航速</span><strong id="speed-readout">0.00 <small>m/s</small></strong></div><div><span>航向</span><strong id="heading-readout">000<small>°</small></strong></div></div></div><p class="keyboard-note"><kbd>W</kbd><kbd>A</kbd><kbd>S</kbd><kbd>D</kbd> 驾驶 <span><kbd>Q</kbd><kbd>E</kbd> 升降</span></p><div class="action-row"><button id="manual" class="button button-outline"><svg><use href="#i-helm"/></svg>手动接管</button><button id="return" class="button button-outline"><svg><use href="#i-home"/></svg>返回起点</button></div><button id="emergency" class="emergency-button"><span>■</span>急停 <kbd>Space</kbd></button></section>
 </aside>
-<section class="mission-panel"><div class="mission-top"><div><span class="eyebrow">当前调查</span><h2>浅水样区 · 均匀航线</h2></div><button id="survey" class="button button-primary"><svg><use href="#i-play"/></svg>开始航线调查</button></div><div class="mission-body"><div class="mini-map"><canvas id="map" aria-label="样区航线、船位与质量标记示意图"></canvas><span>调查航迹</span></div><div class="mission-metrics"><div><span>覆盖网格面积</span><strong><span id="area-value">0</span><small>m²</small></strong></div><div><span>模拟观测条目</span><strong id="count-value">0</strong></div><div><span>待复核区域</span><strong id="flags-value">0</strong></div></div><div class="mission-actions"><button class="button button-outline" id="capture"><svg><use href="#i-camera"/></svg>记录当前观察</button><button class="text-button" id="show-records">查看调查记录</button><p>面积为模拟网格近似；条目按合成目标编号关联。</p></div></div></section>
+<section class="mission-panel"><div class="mission-top"><div><span class="eyebrow">当前调查</span><h2>参圈样区 · 均匀航线</h2></div><button id="survey" class="button button-primary"><svg><use href="#i-play"/></svg>开始航线调查</button></div><div class="mission-body"><div class="mini-map"><canvas id="map" aria-label="样区航线、船位与质量标记示意图"></canvas><span>调查航迹</span></div><div class="mission-metrics"><div><span>覆盖网格面积</span><strong><span id="area-value">0</span><small>m²</small></strong></div><div><span>模拟观测条目</span><strong id="count-value">0</strong></div><div><span>待复核区域</span><strong id="flags-value">0</strong></div></div><div class="mission-actions"><button class="button button-outline" id="capture"><svg><use href="#i-camera"/></svg>记录当前观察</button><button class="text-button" id="show-records">查看调查记录</button><p>面积为模拟网格近似；条目按合成目标编号关联。</p></div></div></section>
 <section class="system-panel"><div class="section-title"><h2>任务状态</h2><span class="small-tag">模拟</span></div><div class="system-item"><span>模拟电量</span><strong id="battery-value">98%</strong></div><div class="battery-bar"><span id="battery-bar"></span></div><div class="system-item"><span>相机升降</span><strong id="lift-state">已到位</strong></div><div class="system-item"><span>记录状态</span><strong id="record-state">待开始</strong></div><p id="notice" role="status">选择手动驾驶，或开始一次航线调查。</p></section>
 </div><footer><span>参衡水下数量调查与质量控制无人船</span><span>模拟用 · 不连接硬件 · 不代表实测性能</span><button id="reset-experience">重置体验</button></footer></main></div>
 <dialog id="records-dialog"><div class="dialog-heading"><div><span class="eyebrow">调查记录</span><h2>每一次观察，都留下依据</h2></div><button class="icon-button" data-close aria-label="关闭调查记录">×</button></div><p>以下均为合成场景观测。质量分数是演示规则，不是检出概率或实测准确率。</p><div class="records-summary" id="records-summary"></div><div class="table-wrap"><table><thead><tr><th>时间</th><th>位置 / m</th><th>深度 / m</th><th>质量</th><th>新增条目</th></tr></thead><tbody id="records-body"></tbody></table><div id="records-empty">还没有调查记录。开始航线调查，或点击“记录当前观察”。</div></div><div class="dialog-footer"><button id="export-dialog" class="button button-primary"><svg><use href="#i-download"/></svg>导出模拟记录 CSV</button><button class="button button-outline" data-close>返回驾驶台</button></div></dialog>
 <dialog id="help-dialog"><div class="dialog-heading"><h2>先观察，再开船</h2><button class="icon-button" data-close aria-label="关闭帮助">×</button></div><div class="help-content"><p><strong>1. 看清机器</strong>　切换“样机近看”，拖动旋转；点击机体查看部件。</p><p><strong>2. 试着驾驶</strong>　按住方向键按钮或 W/A/S/D；Q/E 调整相机深度。</p><p><strong>3. 开始调查</strong>　运行预设均匀航线，或手动记录当前观察。</p><p><strong>4. 检查记录</strong>　浑浊或观测不足的位置会标记为待复核；可导出全部模拟记录。</p><p><strong>急停</strong>　按空格或红色急停按钮。解除急停后，需要重新下达任务。</p><div class="help-callout">本页仅验证机器外观与操作流程。运动、池底、相机画面、观测条目和状态均为模拟，不连接硬件。</div></div></dialog>
 <div id="toast" role="status" class="toast hidden"></div><div id="accessible-state" class="sr-only" aria-live="off"></div>
-<script type="module" src="app.js"></script></body></html>
+<script type="module" src="app.js?v=pond-1"></script></body></html>

diff --git a/app.js b/app.js
@@ -1,6 +1,6 @@
 import * as THREE from 'three';
-import {makeState,makeWorld,tick,capture,quality,beginSurvey,returnHome,manual,emergencyStop,releaseStop,setDepth,clearInput,LIMITS} from './simulation.mjs';
-import {setupScene} from './scene.js';
+import {makeState,makeWorld,tick,capture,quality,beginSurvey,returnHome,manual,emergencyStop,releaseStop,setDepth,clearInput,LIMITS} from './simulation.mjs?v=pond-1';
+import {setupScene} from './scene.js?v=pond-1';
 let state=makeState();const world=makeWorld();const $=s=>document.querySelector(s),all=s=>[...document.querySelectorAll(s)];let toastTimer,view,scale=1,accumulator=0,lastUI=0;
 function toast(text){$('#toast').textContent=text;$('#toast').classList.remove('hidden');clearTimeout(toastTimer);toastTimer=setTimeout(()=>$('#toast').classList.add('hidden'),3200)}
 function part(info){$('#part-name').textContent=info[0];$('#part-description').textContent=info[1];$('#part-detail').classList.remove('hidden')}

diff --git a/style.css b/style.css
@@ -17,3 +17,5 @@ main{max-width:1700px;margin:auto;padding:28px 36px 0}.page-heading{display:flex
 
 /* Generous pointer targets at all breakpoints. */
 .drive-key{min-width:44px;min-height:44px}.direction-pad{grid-template-columns:44px 44px 44px;grid-template-rows:44px 44px 44px}.view-tabs button{min-height:40px}.rail-button{min-height:48px}
+
+.world-coordinate{color:#344e49;background:#f7fbf0bf;padding:8px 10px;border-radius:8px;gap:4px;backdrop-filter:blur(5px)}.world-coordinate em{color:#52685a}.compass{line-height:1}.compass>span{font-size:22px}
